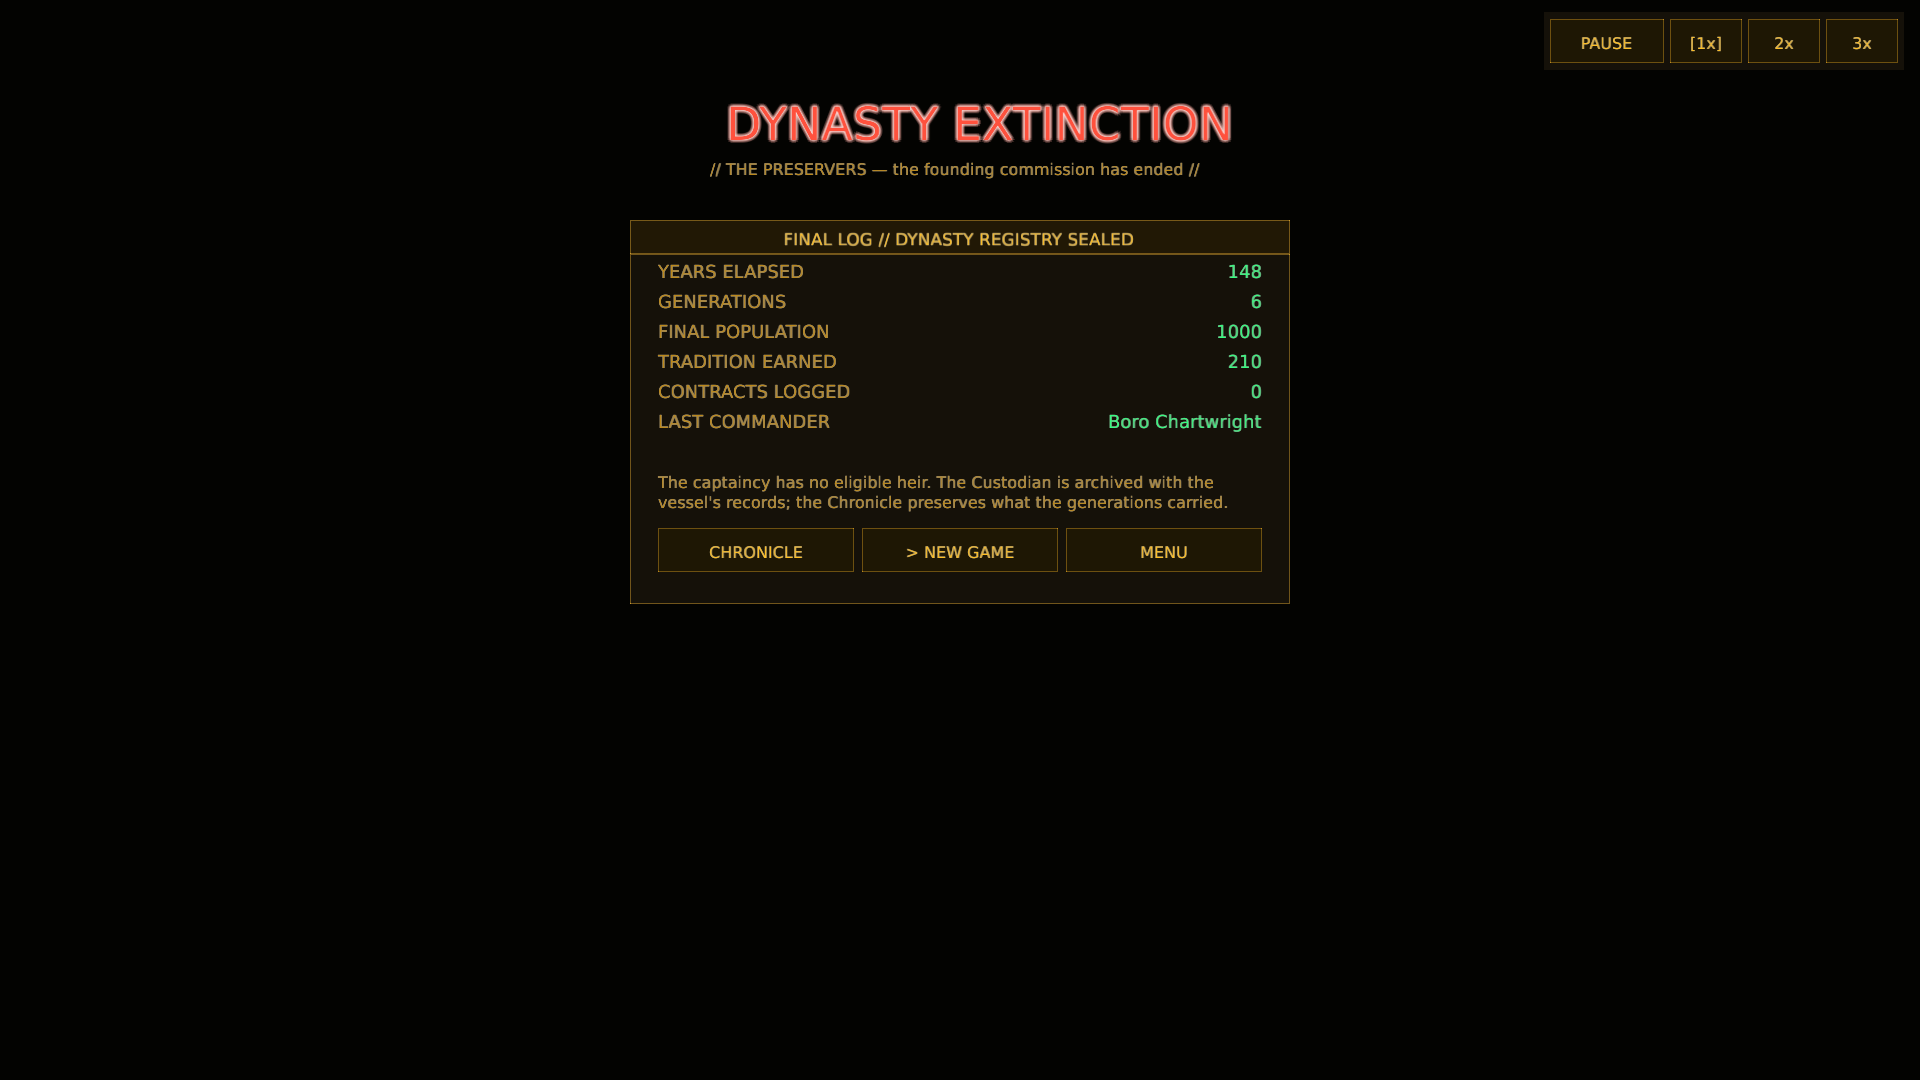
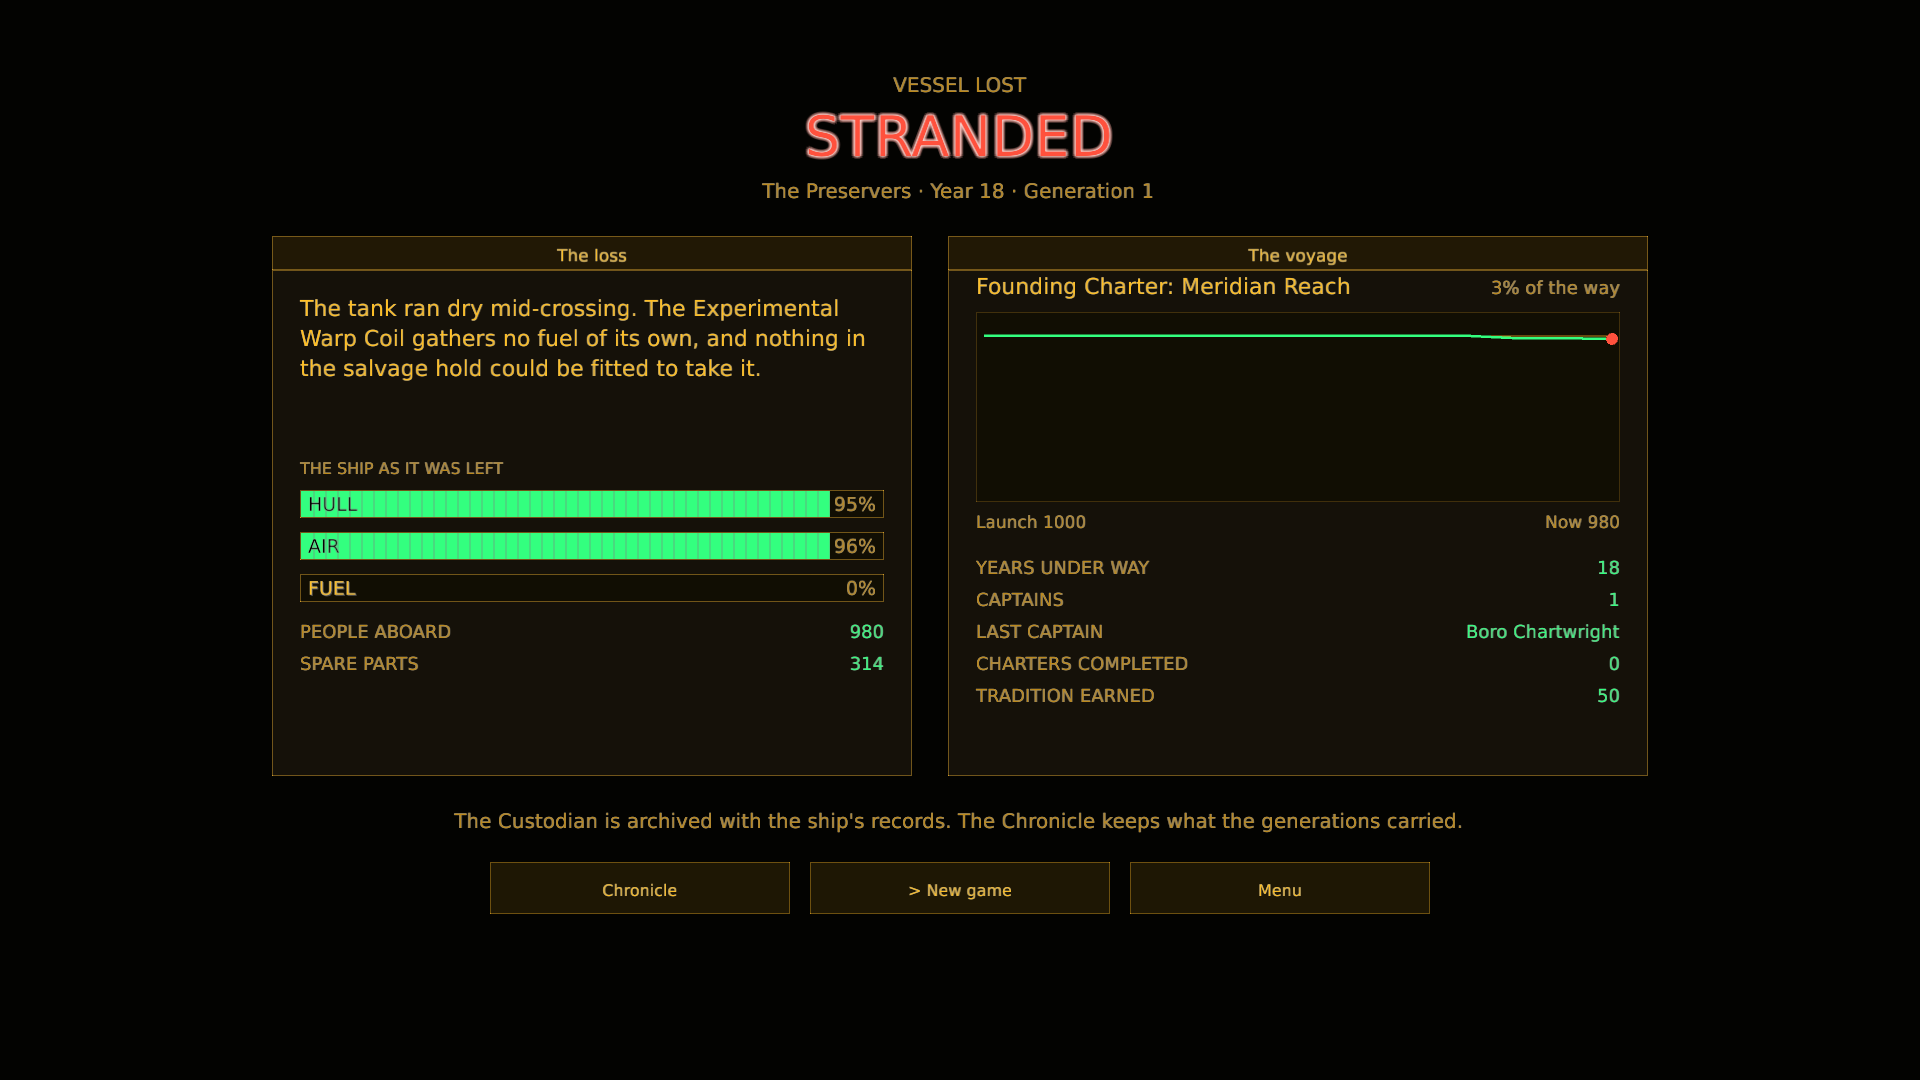
The terminal names the loss and shows what was left (Game over screen)
The game-over screen was a small centred spec table under a reason
label, with the voyage clock's PAUSE and speed buttons still live
above it and a fixed "the founding commission has ended" line.

It now fills the 1080p canvas: "VESSEL LOST" over a short headline
(STRANDED, HULL FAILURE, NO ONE ABOARD, LIFE SUPPORT FAILURE) and the
legacy, year and generation. "The loss" panel gives the evidence in
full and the ship as it was left as hull, air and fuel gauges with the
people and spare parts aboard. "The voyage" panel names the charter and
how far it got, draws the population curve against the launch line
ending in a red dot, and lists years, captains, the last captain,
charters completed and tradition. One closing line and three buttons
follow. The time controls are hidden once the vessel is lost.

Formatting, strict all-target Clippy and the full test suite pass. Game
over was recaptured at 1920x1080 from a real stranded voyage and read
back.

diff --git a/src/ui/game_over.rs b/src/ui/game_over.rs
@@ -1,121 +1,265 @@
-//! Full-screen "voyage terminated" takeover for every authored loss condition.
+//! Full-screen "vessel lost" takeover. The ship is lost only when it is wrecked,
+//! emptied, or stranded beyond repair; a lost captain is never an ending. The
+//! screen names the loss, shows the ship as it was left, and draws the
+//! voyage's population curve beside the record.
 
+use crate::state::sim::TerminalReason;
 use crate::ui::{
-    logical_height, logical_width, spec_line, term, term_button, term_panel, GameplayCtx, UiAction,
+    chart, logical_width, spec_line, term, term_button, term_meter, term_panel, GameplayCtx,
+    UiAction,
 };
 use macroquad::prelude::*;
 use macroquad_toolkit::prelude::*;
 use macroquad_toolkit::ui::{draw_ui_text_ex, RectExt};
 
+const PANEL_TOP: f32 = 236.0;
+const PANEL_H: f32 = 540.0;
+const LEFT_W: f32 = 640.0;
+const RIGHT_W: f32 = 700.0;
+const GAP: f32 = 36.0;
+
 pub fn draw(ctx: &GameplayCtx<'_>, pointer: Pointer, actions: &mut Vec<UiAction>) {
-    draw_rectangle(0.0, 0.0, logical_width(), logical_height(), term::bg());
-    draw_terminal_header(ctx);
-    draw_terminal_summary(ctx, pointer, actions);
+    draw_rectangle(
+        0.0,
+        0.0,
+        logical_width(),
+        crate::ui::logical_height(),
+        term::bg(),
+    );
+    draw_title(ctx);
+    let left_x = (logical_width() - LEFT_W - GAP - RIGHT_W) * 0.5;
+    draw_loss(ctx, Rect::new(left_x, PANEL_TOP, LEFT_W, PANEL_H));
+    draw_voyage(
+        ctx,
+        Rect::new(left_x + LEFT_W + GAP, PANEL_TOP, RIGHT_W, PANEL_H),
+    );
+    draw_closing(pointer, actions);
 }
 
-fn draw_terminal_header(ctx: &GameplayCtx<'_>) {
+/// The loss in two words, with the vessel's name for it above and the
+/// campaign's place in time below.
+fn headline(reason: Option<TerminalReason>) -> &'static str {
+    match reason {
+        Some(TerminalReason::Stranded) => "STRANDED",
+        Some(TerminalReason::HullLoss) => "HULL FAILURE",
+        Some(TerminalReason::PopulationLoss) => "NO ONE ABOARD",
+        Some(TerminalReason::LifeSupportFailure) => "LIFE SUPPORT FAILURE",
+        Some(TerminalReason::DynastyExtinction) | None => "VOYAGE ENDED",
+    }
+}
+
+fn draw_title(ctx: &GameplayCtx<'_>) {
     let sim = ctx.sim;
+    let cx = logical_width() * 0.5;
+    draw_text_centered("VESSEL LOST", cx, 92.0, TextStyle::new(20.0, term::dim()));
+    let title = headline(sim.terminal.as_ref().map(|t| t.reason));
+    let style = TextStyle::new(56.0, term::alert());
+    let w = measure_text_size(title, style).width;
+    draw_text_glow(title, cx - w * 0.5, 156.0, style, 0.14, 3.0);
     let legacy = ctx
         .data
         .legacies
         .get(&sim.legacy.legacy_id)
-        .map(|l| l.name.clone())
-        .unwrap_or_default();
-
-    // Halted-terminal banner.
-    let reason = sim
-        .terminal
-        .as_ref()
-        .map(|terminal| terminal.reason.label())
-        .unwrap_or("DYNASTY EXTINCTION");
-    draw_text_glow(
-        reason,
-        logical_width() / 2.0 - reason.len() as f32 * 13.0,
-        140.0,
-        TextStyle::new(46.0, term::alert()),
-        0.14,
-        3.0,
-    );
-    draw_ui_text_ex(
+        .map_or("", |l| l.name.as_str());
+    draw_text_centered(
         &format!(
-            "// {} — the founding commission has ended //",
-            legacy.to_uppercase()
+            "{legacy} · Year {} · Generation {}",
+            sim.year(),
+            sim.dynasty.generation
         ),
-        logical_width() / 2.0 - 250.0,
-        175.0,
-        TextStyle::new(16.0, term::dim()).params(),
+        cx,
+        198.0,
+        TextStyle::new(20.0, term::dim()),
     );
 }
 
-fn draw_terminal_summary(ctx: &GameplayCtx<'_>, pointer: Pointer, actions: &mut Vec<UiAction>) {
+/// What happened, then the ship as it was left: hull, air and fuel gauges and
+/// the people and parts still aboard.
+fn draw_loss(ctx: &GameplayCtx<'_>, rect: Rect) {
     let sim = ctx.sim;
-    let panel = Rect::new(logical_width() / 2.0 - 330.0, 220.0, 660.0, 384.0);
-    term_panel(panel, Some("FINAL LOG // DYNASTY REGISTRY SEALED"));
-    let content = panel.inset(28.0);
+    term_panel(rect, Some("The loss"));
+    let content = rect.inset(28.0);
+    let evidence = sim
+        .terminal
+        .as_ref()
+        .map_or("The voyage has ended.", |t| t.evidence.as_str());
+    draw_text_block(
+        evidence,
+        content.x,
+        content.y + 30.0,
+        content.w,
+        150.0,
+        22.0,
+        8.0,
+        term::primary(),
+    );
 
-    let contracts = ctx
+    let mut y = content.y + 210.0;
+    caption("THE SHIP AS IT WAS LEFT", content.x, y);
+    y += 16.0;
+    let gauges = [
+        ("HULL", sim.ship.hull_integrity),
+        ("AIR", sim.ship.life_support),
+        ("FUEL", sim.ship.fuel),
+    ];
+    for (label, value) in gauges {
+        term_meter(
+            Rect::new(content.x, y, content.w, 28.0),
+            value,
+            1.0,
+            label,
+            &format!("{:.0}%", value * 100.0),
+        );
+        y += 42.0;
+    }
+    y += 22.0;
+    spec_line(
+        content.x,
+        y,
+        content.w,
+        "PEOPLE ABOARD",
+        &sim.population.count.to_string(),
+        term::accent(),
+    );
+    spec_line(
+        content.x,
+        y + 32.0,
+        content.w,
+        "SPARE PARTS",
+        &sim.ship.spare_parts.to_string(),
+        term::accent(),
+    );
+}
+
+/// The charter the ship was on, its population year by year, and the
+/// campaign's record.
+fn draw_voyage(ctx: &GameplayCtx<'_>, rect: Rect) {
+    let sim = ctx.sim;
+    term_panel(rect, Some("The voyage"));
+    let content = rect.inset(28.0);
+    let mut y = content.y + 30.0;
+    if let Some(contract) = sim.contract.as_ref() {
+        draw_ui_text_ex(
+            &contract.name,
+            content.x,
+            y,
+            TextStyle::new(22.0, term::primary()).params(),
+        );
+        let share = format!("{:.0}% of the way", contract.progress() * 100.0);
+        draw_text_right(
+            &share,
+            content.right(),
+            y,
+            TextStyle::new(18.0, term::dim()),
+        );
+        let mut track: Vec<f32> = contract
+            .population_track
+            .iter()
+            .map(|v| *v as f32)
+            .collect();
+        if track.is_empty() {
+            track.push(contract.starting_population as f32);
+        }
+        track.push(sim.population.count as f32);
+        let plot = Rect::new(content.x, y + 18.0, content.w, 190.0);
+        draw_population(plot, &track, contract.starting_population as f32);
+        y = plot.bottom() + 26.0;
+        let ends = TextStyle::new(17.0, term::dim());
+        draw_ui_text_ex(
+            &format!("Launch {}", contract.starting_population),
+            content.x,
+            y,
+            ends.params(),
+        );
+        draw_text_right(
+            &format!("Now {}", sim.population.count),
+            content.right(),
+            y,
+            ends,
+        );
+        y += 46.0;
+    }
+
+    let charters = ctx
         .chronicle
         .entries
         .iter()
         .filter(|e| e.legacy_id == sim.legacy.legacy_id)
         .count();
-    let leader = sim
+    let captain = sim
         .dynasty
         .leader()
-        .map(|l| l.name.clone())
-        .unwrap_or_else(|| "an empty chair".to_owned());
-
-    let rows: [(&str, String); 6] = [
-        ("YEARS ELAPSED", sim.year().to_string()),
-        ("GENERATIONS", sim.dynasty.generation.to_string()),
-        ("FINAL POPULATION", sim.population.count.to_string()),
+        .map_or_else(|| "none".to_owned(), |l| l.name.clone());
+    let rows = [
+        ("YEARS UNDER WAY", sim.year().to_string()),
+        ("CAPTAINS", sim.dynasty.reigns.len().max(1).to_string()),
+        ("LAST CAPTAIN", captain),
+        ("CHARTERS COMPLETED", charters.to_string()),
         ("TRADITION EARNED", sim.legacy.tradition_points.to_string()),
-        ("CONTRACTS LOGGED", contracts.to_string()),
-        ("LAST COMMANDER", leader),
     ];
-    let mut y = content.y + 30.0;
     for (label, value) in rows {
         spec_line(content.x, y, content.w, label, &value, term::accent());
-        y += 30.0;
+        y += 32.0;
     }
+}
 
-    y += 14.0;
-    let evidence = sim
-        .terminal
-        .as_ref()
-        .map(|terminal| terminal.evidence.as_str())
-        .unwrap_or("The captaincy has no eligible heir.");
-    draw_text_block(
-        &format!("{evidence} The Custodian is archived with the vessel's records; the Chronicle preserves what the generations carried."),
-        content.x,
+/// Population over the charter against a faint launch line, ending in a dot
+/// where the ship was lost.
+fn draw_population(plot: Rect, values: &[f32], launch: f32) {
+    draw_rectangle(plot.x, plot.y, plot.w, plot.h, term::surface_inset());
+    draw_rectangle_lines(plot.x, plot.y, plot.w, plot.h, 1.0, term::faint());
+    let hi = values.iter().copied().fold(launch.max(1.0), f32::max) * 1.1;
+    let inner = plot.inset(8.0);
+    if let Some(start) = chart::line_points(inner, &[launch], 0.0, hi).first() {
+        draw_line(inner.x, start.y, inner.right(), start.y, 1.0, term::dim());
+    }
+    let points = chart::line_points(inner, values, 0.0, hi);
+    chart::polyline(&points, 2.5, term::accent());
+    if let Some(last) = points.last() {
+        draw_circle(last.x, last.y, 6.0, term::alert());
+    }
+}
+
+fn caption(text: &str, x: f32, y: f32) {
+    draw_ui_text_ex(text, x, y, TextStyle::new(16.0, term::dim()).params());
+}
+
+/// One closing line, then the way on: the Chronicle, a new campaign, or the
+/// menu. No keyboard is needed to leave.
+fn draw_closing(pointer: Pointer, actions: &mut Vec<UiAction>) {
+    let cx = logical_width() * 0.5;
+    let y = PANEL_TOP + PANEL_H + 52.0;
+    draw_text_centered(
+        "The Custodian is archived with the ship's records. The Chronicle keeps what the generations carried.",
+        cx,
         y,
-        content.w,
-        44.0,
-        14.0,
-        4.0,
-        term::dim(),
+        TextStyle::new(20.0, term::dim()),
     );
-
-    // The terminal always leaves the player an explicit route to the Chronicle,
-    // a fresh campaign, or the menu. No keyboard is needed to recover.
     let caret = if blink(get_time() as f32, 2.5) {
         ">"
     } else {
         " "
     };
-    let gap = 8.0;
-    let btn_w = (content.w - gap * 2.0) / 3.0;
-    let y = content.bottom() - 48.0;
-    let chronicle = Rect::new(content.x, y, btn_w, 44.0);
-    let new_game = Rect::new(content.x + btn_w + gap, y, btn_w, 44.0);
-    let menu = Rect::new(content.right() - btn_w, y, btn_w, 44.0);
-    if term_button(chronicle, "CHRONICLE", true, pointer) {
+    let (btn_w, gap) = (300.0, 20.0);
+    let x = cx - (btn_w * 3.0 + gap * 2.0) * 0.5;
+    let by = y + 34.0;
+    if term_button(Rect::new(x, by, btn_w, 52.0), "Chronicle", true, pointer) {
         actions.push(UiAction::SelectScreen(crate::state::Screen::Chronicle));
     }
-    if term_button(new_game, &format!("{caret} NEW GAME"), true, pointer) {
+    if term_button(
+        Rect::new(x + btn_w + gap, by, btn_w, 52.0),
+        &format!("{caret} New game"),
+        true,
+        pointer,
+    ) {
         actions.push(UiAction::RetireVoyage);
     }
-    if term_button(menu, "MENU", true, pointer) {
+    if term_button(
+        Rect::new(x + (btn_w + gap) * 2.0, by, btn_w, 52.0),
+        "Menu",
+        true,
+        pointer,
+    ) {
         actions.push(UiAction::ToMenu);
     }
 }

diff --git a/src/game/render.rs b/src/game/render.rs
@@ -148,7 +148,12 @@ impl Game {
         let help_action = self.help_open.then(|| self.draw_help(pointer)).flatten();
         let mut time_actions = Vec::new();
         if let GameState::Gameplay(gameplay) = &self.state {
-            if !self.settings_open && !self.help_open && !self.welcome_open {
+            // A lost vessel has no clock left to run.
+            if !self.settings_open
+                && !self.help_open
+                && !self.welcome_open
+                && gameplay.sim.terminal.is_none()
+            {
                 ui::time_controls::draw(&gameplay.sim, pointer, &mut time_actions);
             }
         }
